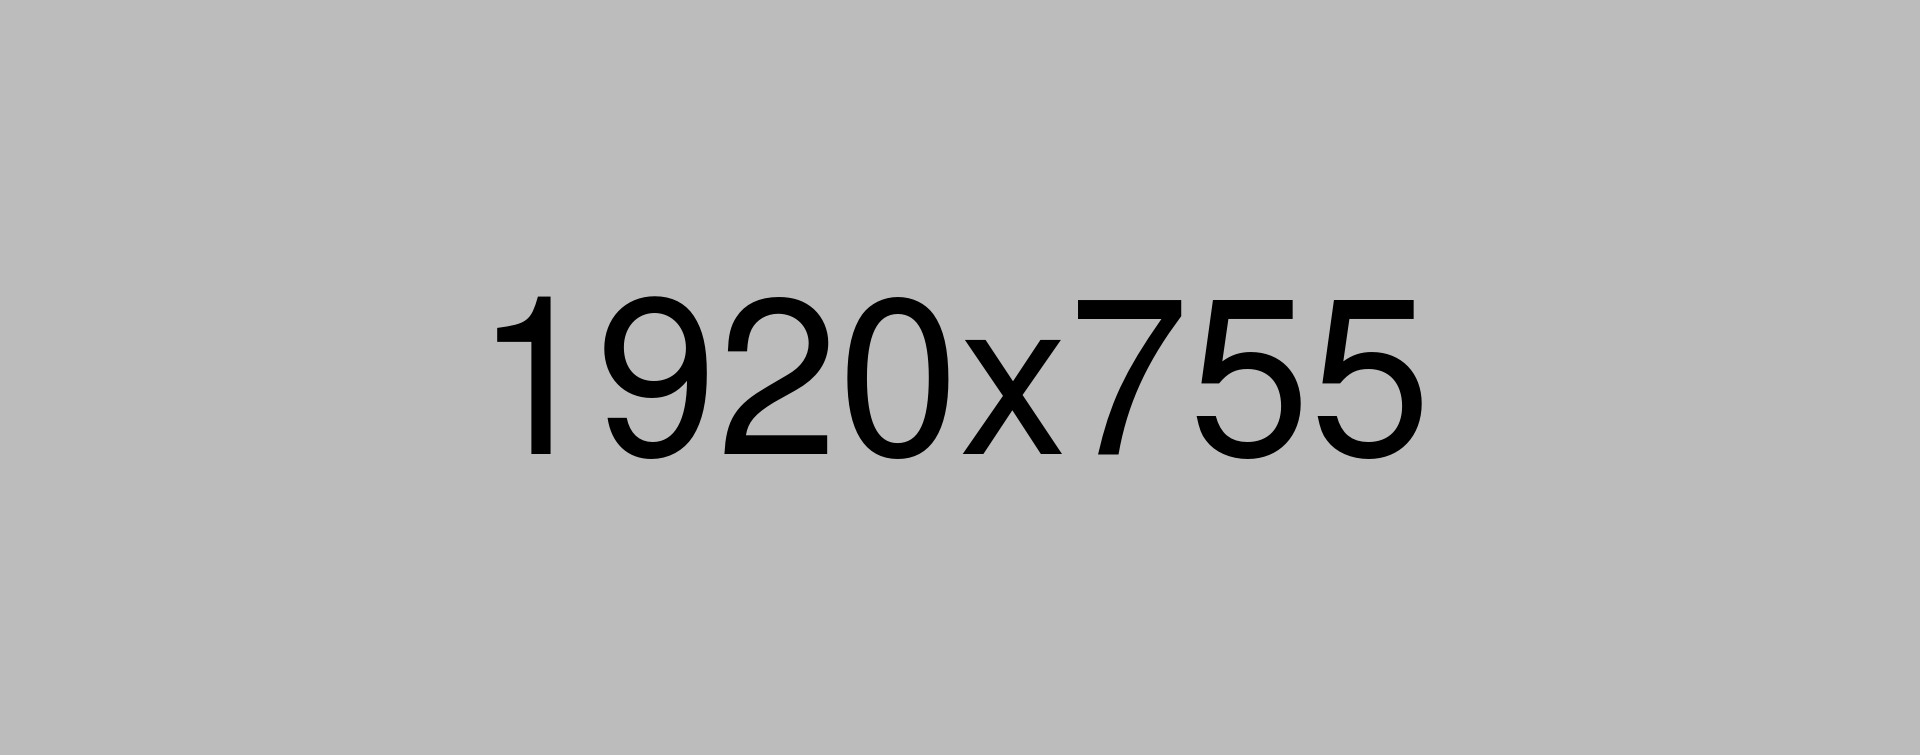
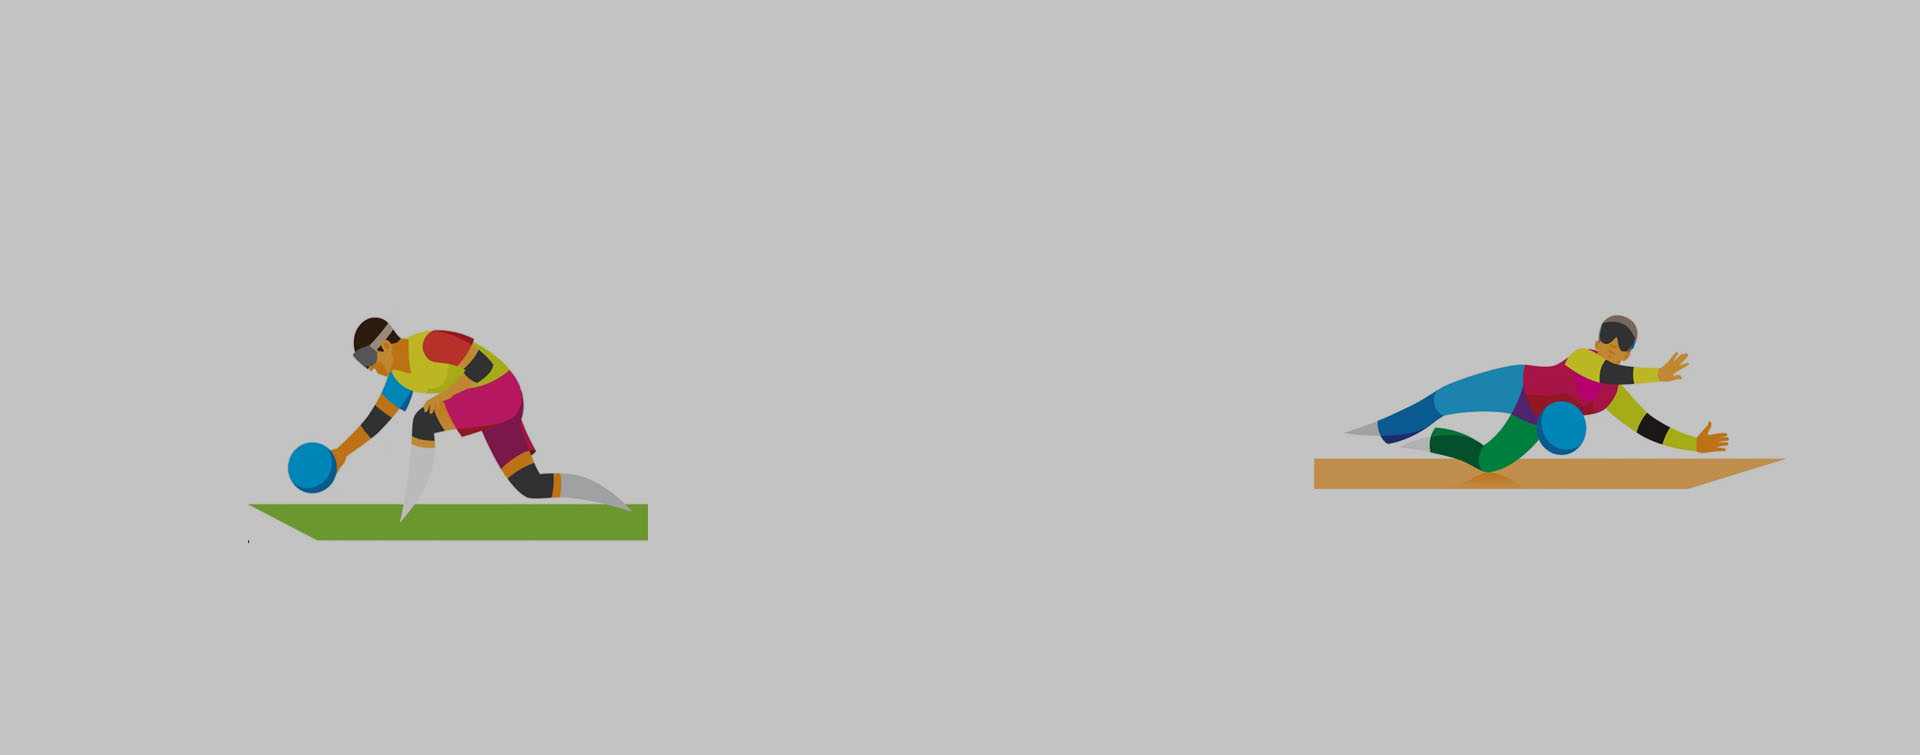
jj

Changed region(s): [[0.125, 0.396, 0.5938, 0.7311], [0.5625, 0.396, 0.9375, 0.6702]]

diff --git a/contact.php b/contact.php
@@ -32,8 +32,7 @@ include "layouts/header.php";
             <div class="sec-title3 text-center w-100">
                 <div class="sec-title3-inner d-inline-block">
                     <h3 class="mb-0">Contact Information</h3>
-                    <p class="mb-0">Lorem ipsum dolor sit amet, consectetur adipisici elit, sed eiusmod tempor incidunt
-                        ut labore et dolore magna aliqua invideo miror magis.</p>
+                    
                 </div>
             </div>
             <div class="contact-info-wrap text-center position-relative w-100">
@@ -41,16 +40,15 @@ include "layouts/header.php";
                     <div class="col-md-4 col-sm-6 col-lg-4">
                         <div class="contact-info-box position-relative w-100">
                             <i class="fas fa-envelope-open brd-rd10 d-inline-block scndry-clr"></i>
-                            <span class="d-block"><a href="mailto:info@nauthemes.com"
-                                    title="">info@nauthemes.com</a></span>
-                            <span class="d-block"><a href="mailto:admin@nauthemes.com"
-                                    title="">admin@nauthemes.com</a></span>
+                            <span class="d-block"><a href="mailto:info@goalballindia.com"
+                                    title="">info@goalballindia.com</a></span>
+                           
                         </div>
                     </div>
                     <div class="col-md-4 col-sm-6 col-lg-4">
                         <div class="contact-info-box position-relative w-100">
                             <i class="fas fa-home brd-rd10 d-inline-block scndry-clr"></i>
-                            <p class="mb-0">503 Old Buffalo Street <br> Northwest #205, New York-3087.</p>
+                            <p class="mb-0">630/B, Jyoti Nagar <br> Jagadhri-135003, Yamunanagar (HRY)</p>
                         </div>
                     </div>
                     <div class="col-md-4 col-sm-6 col-lg-4">
@@ -105,38 +103,7 @@ include "layouts/header.php";
         </div>
     </div>
 </section>
-<section>
-    <div class="w-100 pt-55 pb-55 position-relative">
-        <div class="container">
-            <ul class="spnsr-list d-flex flex-wrap justify-content-center align-items-center list-unstyled w-100">
-                <li>
-                    <div class="spnsr-box text-center w-100">
-                        <a href="javascript:void(0);" title=""><img class="img-fluid"
-                                src="assets/images/resources/spnsr-img1-1.png" alt="Sponsor Image 1"></a>
-                    </div>
-                </li>
-                <li>
-                    <div class="spnsr-box text-center w-100">
-                        <a href="javascript:void(0);" title=""><img class="img-fluid"
-                                src="assets/images/resources/spnsr-img1-2.png" alt="Sponsor Image 2"></a>
-                    </div>
-                </li>
-                <li>
-                    <div class="spnsr-box text-center w-100">
-                        <a href="javascript:void(0);" title=""><img class="img-fluid"
-                                src="assets/images/resources/spnsr-img1-3.png" alt="Sponsor Image 3"></a>
-                    </div>
-                </li>
-                <li>
-                    <div class="spnsr-box text-center w-100">
-                        <a href="javascript:void(0);" title=""><img class="img-fluid"
-                                src="assets/images/resources/spnsr-img1-4.png" alt="Sponsor Image 4"></a>
-                    </div>
-                </li>
-            </ul><!-- Sponsors List -->
-        </div>
-    </div>
-</section>
+
 
 
 
